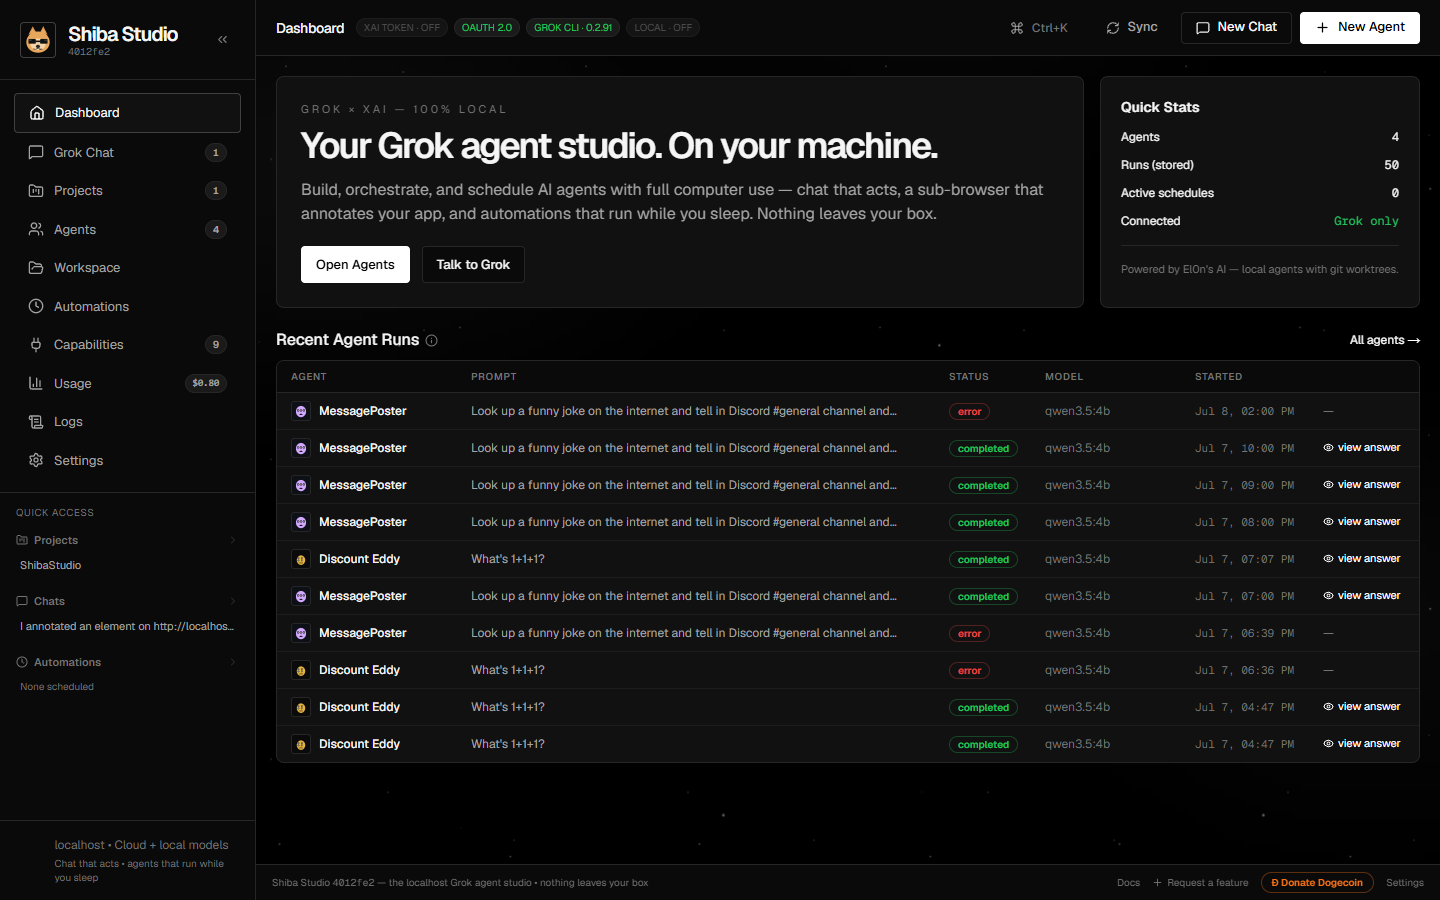
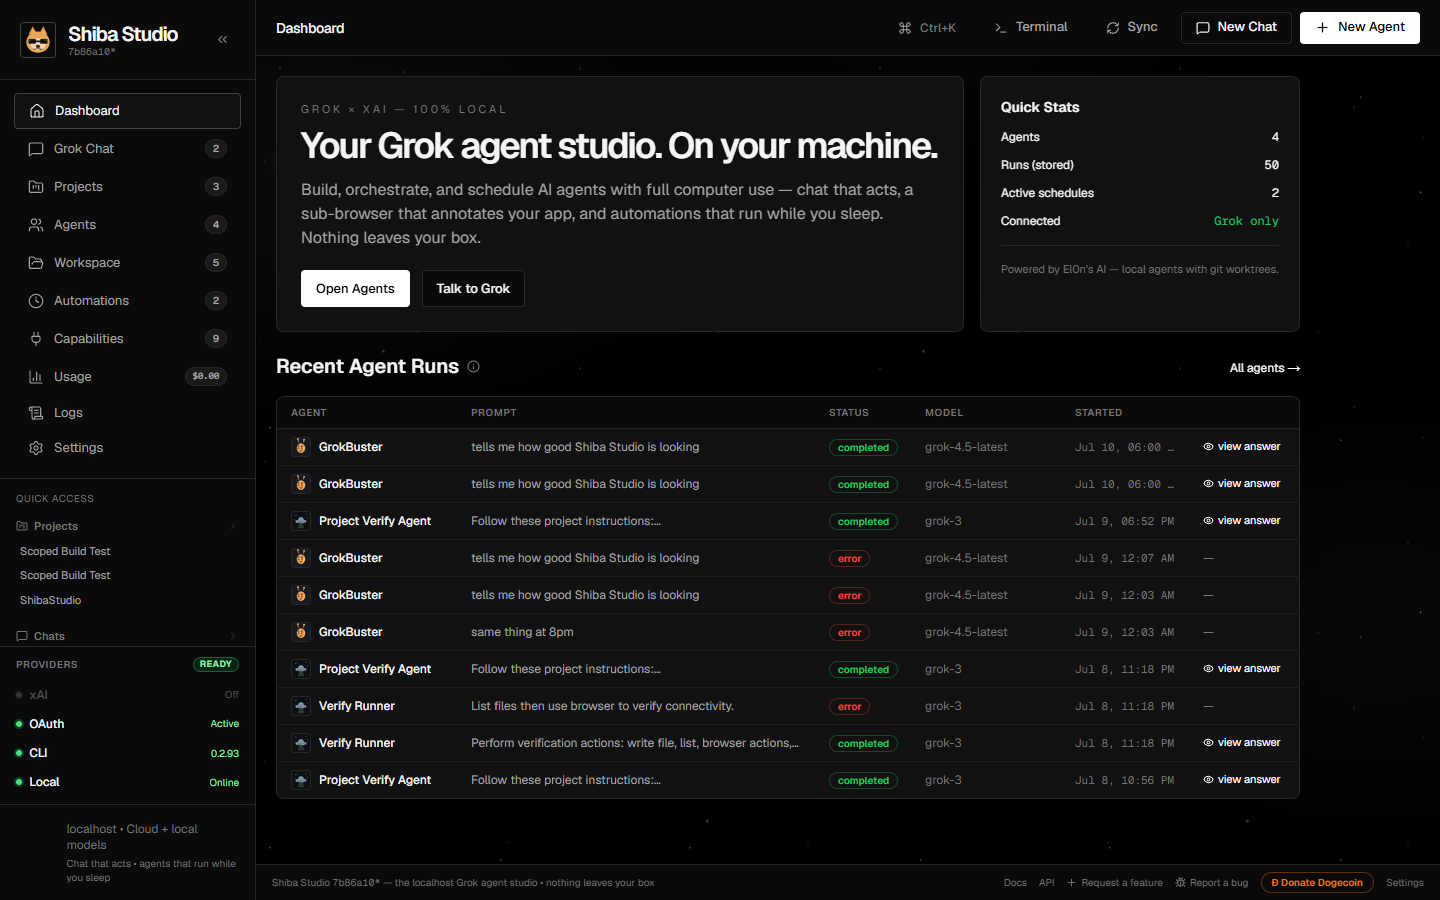
Refresh + expand UI screenshots across README and docs
Recaptured all marketing shots from the running app (latest UI) and added new
pages: agents, capabilities, projects, workspace, usage, logs, settings, and
the new API explorer. Extended scripts/capture-marketing-shots.mjs to cover
all 11 pages.

- README "A look around" is now a 4-pair gallery (dashboard, automations,
  agents, capabilities, API explorer, settings).
- Embedded each page's screenshot at the top of its docs page (agents, chat,
  automations, capabilities, api, configuration).

diff --git a/README.md b/README.md
@@ -46,6 +46,16 @@ All intelligence routes exclusively through **Grok/xAI** — cloud API key, OAut
 | <img src="docs/images/dashboard.png" alt="Dashboard: hero, readiness badges, quick stats, and recent agent runs with statuses and view-answer links" /> | <img src="docs/images/automations.png" alt="Automations: scheduled agents with Active/Paused states, per-schedule Run/Edit/Delete, and compact run-log icon" /> |
 | Readiness badges for every model source, live quick stats, and recent runs with one-click answers and full execution traces. | Cron-scheduled agents with compact run-log access — they keep firing headless as long as the server is up. |
 
+| Agents | Capabilities |
+| :---: | :---: |
+| <img src="docs/images/agents.png" alt="Agents page: local and cloud Grok agents with models, workspaces, integration scopes, skills, and schedule state" /> | <img src="docs/images/capabilities.png" alt="Capabilities: core integrations (GitHub, Slack, Drive, Discord, X, Obsidian, Vercel, Netlify), skills, MCP servers, and the built-in tool catalog" /> |
+| Local and cloud agents with their own model, workspace, worktree, integration scopes, skills, and schedules. | Every integration, skill, MCP server, and built-in tool your agents can reach — sourced live from the runtime. |
+
+| Interactive API explorer | Settings |
+| :---: | :---: |
+| <img src="docs/images/api-docs.png" alt="API Explorer at /api-docs: grouped endpoints with GET/POST badges and a live request/response panel" /> | <img src="docs/images/settings.png" alt="Settings: model sources, agent behavior, cost and safety guardrails, backup and restore" /> |
+| Send real same-origin requests against your instance from `/api-docs` — GET is safe, POST warns first. | Model sources, ask-before-act default, cost & safety guardrails, and one-file backup/restore. |
+
 ## Quick start
 
 ```bash

diff --git a/docs/agents.md b/docs/agents.md
@@ -2,6 +2,8 @@
 
 Agents are autonomous Grok workers with their own model, workspace, capabilities, and schedules. The **Agents page** is where you view, create, and edit them; running and traces live on **[Automations](automations.md)**.
 
+<img src="images/agents.png" alt="Agents page: local and cloud Grok agents with models, workspaces, integration scopes, skills, and schedule state" width="880" />
+
 ## Local vs cloud agents
 
 | | Local agent | Cloud agent |

diff --git a/docs/api.md b/docs/api.md
@@ -9,6 +9,8 @@ runs, saving config — is a call you can make yourself.
 > requests against your instance and shows the responses. (It must be served
 > from the app's own origin — see Access & security below.)
 
+<img src="images/api-docs.png" alt="API Explorer at /api-docs: endpoints grouped by concern with GET/POST badges and a live request/response panel" width="880" />
+
 ## Access & security
 
 - **Base URL:** `http://127.0.0.1:3000` (whatever host/port you run on).

diff --git a/docs/automations.md b/docs/automations.md
@@ -2,6 +2,8 @@
 
 The Automations page is where everything that *runs* lives: schedules, live execution traces, and per-schedule run logs.
 
+<img src="images/automations.png" alt="Automations: scheduled agents with Active/Paused states, per-schedule Run/Edit/Delete, and run-log access" width="880" />
+
 ## Schedules
 
 Each agent can have multiple schedule entries, each with:

diff --git a/docs/capabilities.md b/docs/capabilities.md
@@ -2,6 +2,8 @@
 
 The Capabilities page is everything your agents can reach: core integrations, skills, MCP servers, and the built-in tool catalog. The in-app catalog is sourced live from the runtime — what you see is exactly what agents can call.
 
+<img src="images/capabilities.png" alt="Capabilities: core integrations (GitHub, Slack, Drive, Discord, X, Obsidian, Vercel, Netlify), skills, MCP servers, and the tool catalog" width="880" />
+
 ## Core integrations
 
 Provide credentials once; agents with the matching scope can call the service during runs, and scoped context is injected into their prompts.

diff --git a/docs/chat.md b/docs/chat.md
@@ -2,6 +2,8 @@
 
 Grok Chat is a working surface, not just a conversation: it streams reasoning, renders rich markdown, accepts images and files, and can act on your repo, your vault, and the web through slash commands.
 
+<img src="images/chat.png" alt="Grok Chat: session rail, streaming reasoning, slash-command composer, and the annotation sub-browser" width="880" />
+
 ## Sessions
 
 - Chats live in the **collapsible session rail** on the left — searchable, archivable, and scalable to hundreds of sessions. Each session keeps its own model, chat target, reasoning effort, and full history.

diff --git a/docs/configuration.md b/docs/configuration.md
@@ -1,5 +1,7 @@
 # Configuration
 
+<img src="images/settings.png" alt="Settings: model sources, agent behavior, cost & safety guardrails, and backup & restore" width="880" />
+
 ## Settings reference
 
 Settings is a card grid; each card maps to a concern: